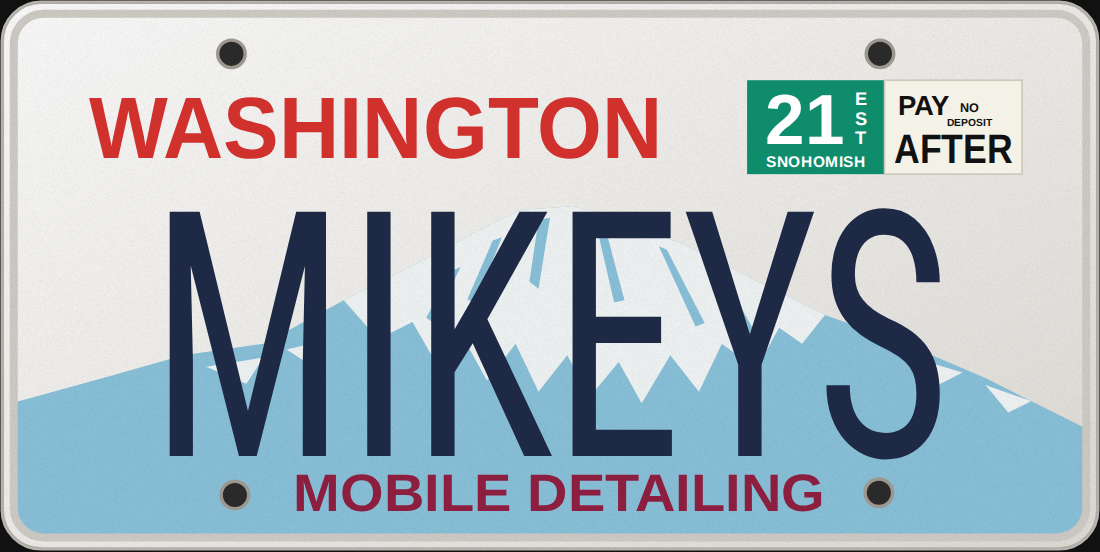
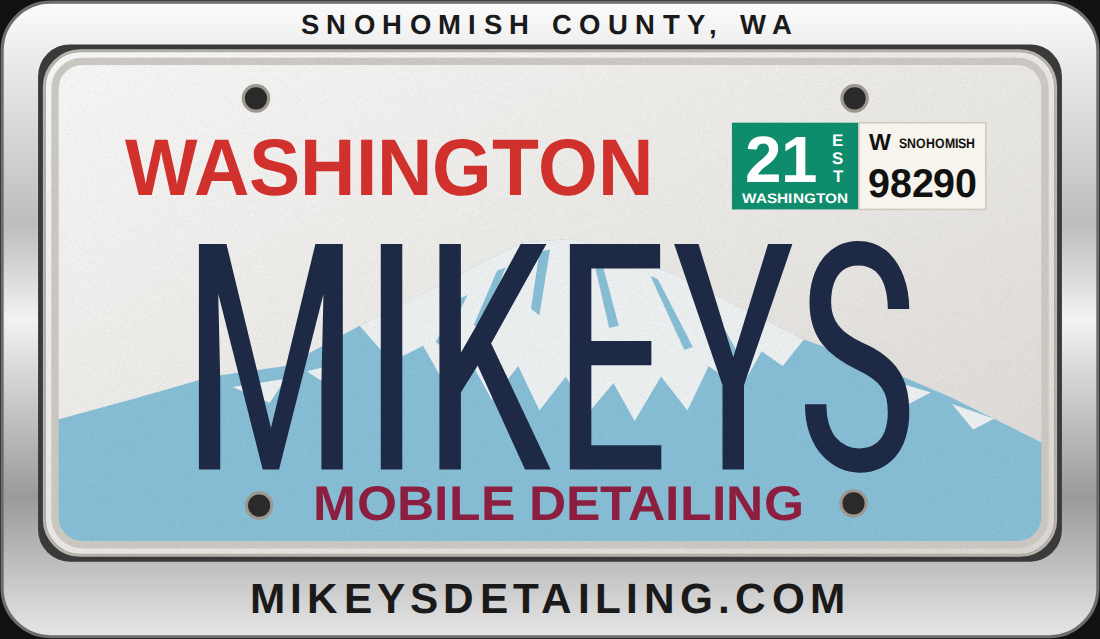
Add final Washington plate shirt: back print file, front+back mockup, generator
Claude-Session: https://claude.ai/code/session_0185ATmAwtR7q6KJ5bEVyh49

diff --git a/social/brand/shirts/README.md b/social/brand/shirts/README.md
@@ -1,5 +1,22 @@
 # Work shirts (black)
 
+## Final design (chosen)
+
+| File | Print size | Where |
+|---|---|---|
+| `back-plate-12in-FINAL.png` | 12 in wide x 13.4 in tall | full back |
+| `front-chest-4in.png` | 4 in wide | left chest |
+| `mockup-FINAL-front-back.png` | preview only | |
+
+Back: logo, a redrawn Washington plate reading MIKEYS in a chrome frame
+("SNOHOMISH COUNTY, WA" / "MIKEYSDETAILING.COM"), "I COME TO YOU.",
+"You don't pay until you love it.", (425) 600-7897.
+Print DTG or DTF (full color, shading); not a screen-print design.
+`source/build-plate-shirt.cjs` is the generator (Playwright; fonts from @fontsource,
+all OFL). `concepts/` holds the options that were not picked.
+
+## First version (logo only)
+
 Print files for black shirts, built from `../logo.svg`. Transparent PNG, 300 DPI.
 
 | File | Print size | Where |
